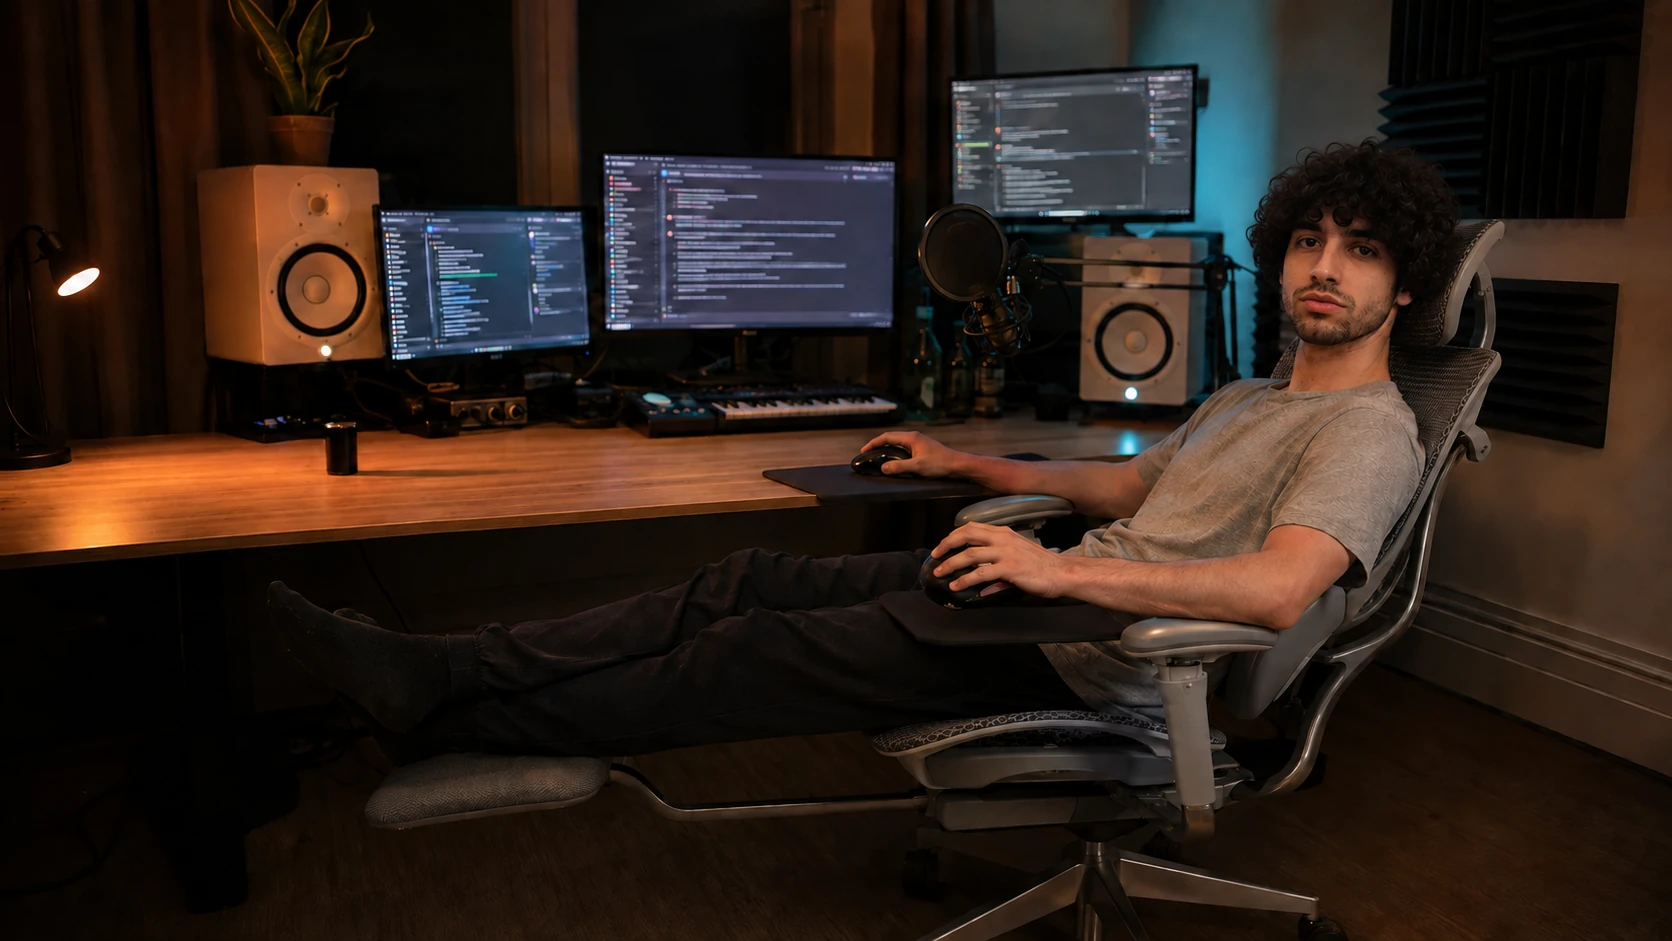
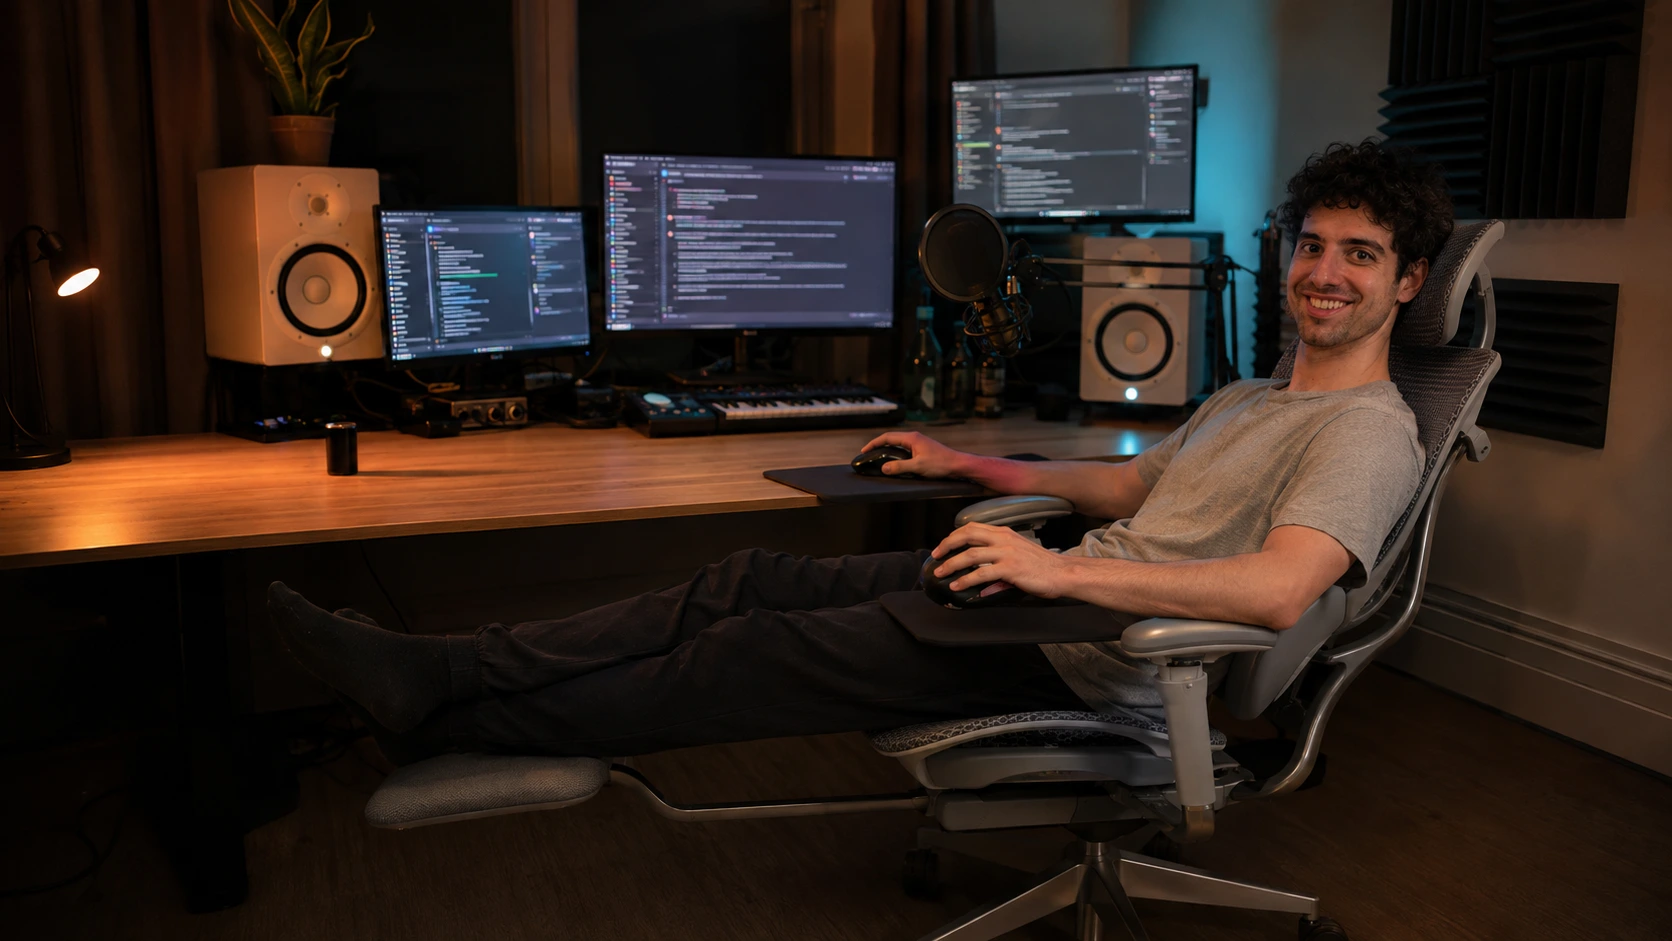
Restore the original lounge image

diff --git a/docs/index.html b/docs/index.html
@@ -25,7 +25,7 @@
     />
     <meta
       property="og:image"
-      content="https://ethansk.github.io/agentic-mouse/assets/ethan-lounging.webp"
+      content="https://ethansk.github.io/agentic-mouse/assets/ethan-lounging.webp?v=__SITE_VERSION__"
     />
     <meta name="twitter:card" content="summary_large_image" />
     <link rel="canonical" href="https://ethansk.github.io/agentic-mouse/" />
@@ -247,7 +247,7 @@
           <figure>
             <div class="lounge-photo">
               <img
-                src="./assets/ethan-lounging.webp"
+                src="./assets/ethan-lounging.webp?v=__SITE_VERSION__"
                 width="1672"
                 height="941"
                 alt="AI scene of Ethan reclining in a grey Hbada chair at his music studio desk, with one mouse under each hand and a boom microphone"

diff --git a/docs/SHOWCASE.md b/docs/SHOWCASE.md
@@ -110,12 +110,13 @@ Every displayed image retains its source aspect ratio. Hardware thumbnails use
 - `razer-side.webp`: Gallery 4 from the same official Razer product gallery, converted
   to WebP without changing its proportions, used as the thumb-grid reference inset.
 - `hbada.webp`: [Hbada E3 Pro 2026 grey chair image](https://www.hbada.uk/cdn/shop/files/E3_Pro_2026_Gray_with_footrest_ergonomic_office_chair_front.png?v=1778028844&width=1200).
-- `ethan-lounging.webp`: an AI scene commissioned by Ethan using his
-  original studio photograph for the setting and his [real GitHub profile portrait](https://github.com/EthanSK)
-  for the face. The earlier generated identity reference was replaced after Ethan
-  reported that it did not look like him. It is
-  clearly labelled as AI on the page. It illustrates the reclining setup rather
-  than claiming to be a documentary photograph or a live application screenshot.
+- `ethan-lounging.webp`: the original AI scene commissioned by Ethan using his
+  studio and thedrums/Spotify Canvas photographs as identity and setting references.
+  Restored byte-for-byte from `5d3ba24` at Ethan's request after he rejected the
+  later face replacement. It remains labelled as AI on the page and illustrates
+  the reclining setup rather than claiming to be a documentary photograph or
+  a live application screenshot. The image URL uses the site's content version
+  so returning visitors receive the restored image.
 
 Product photography and names remain the property of their respective owners.
 Original private identity reference files, native configuration, review transcripts,
